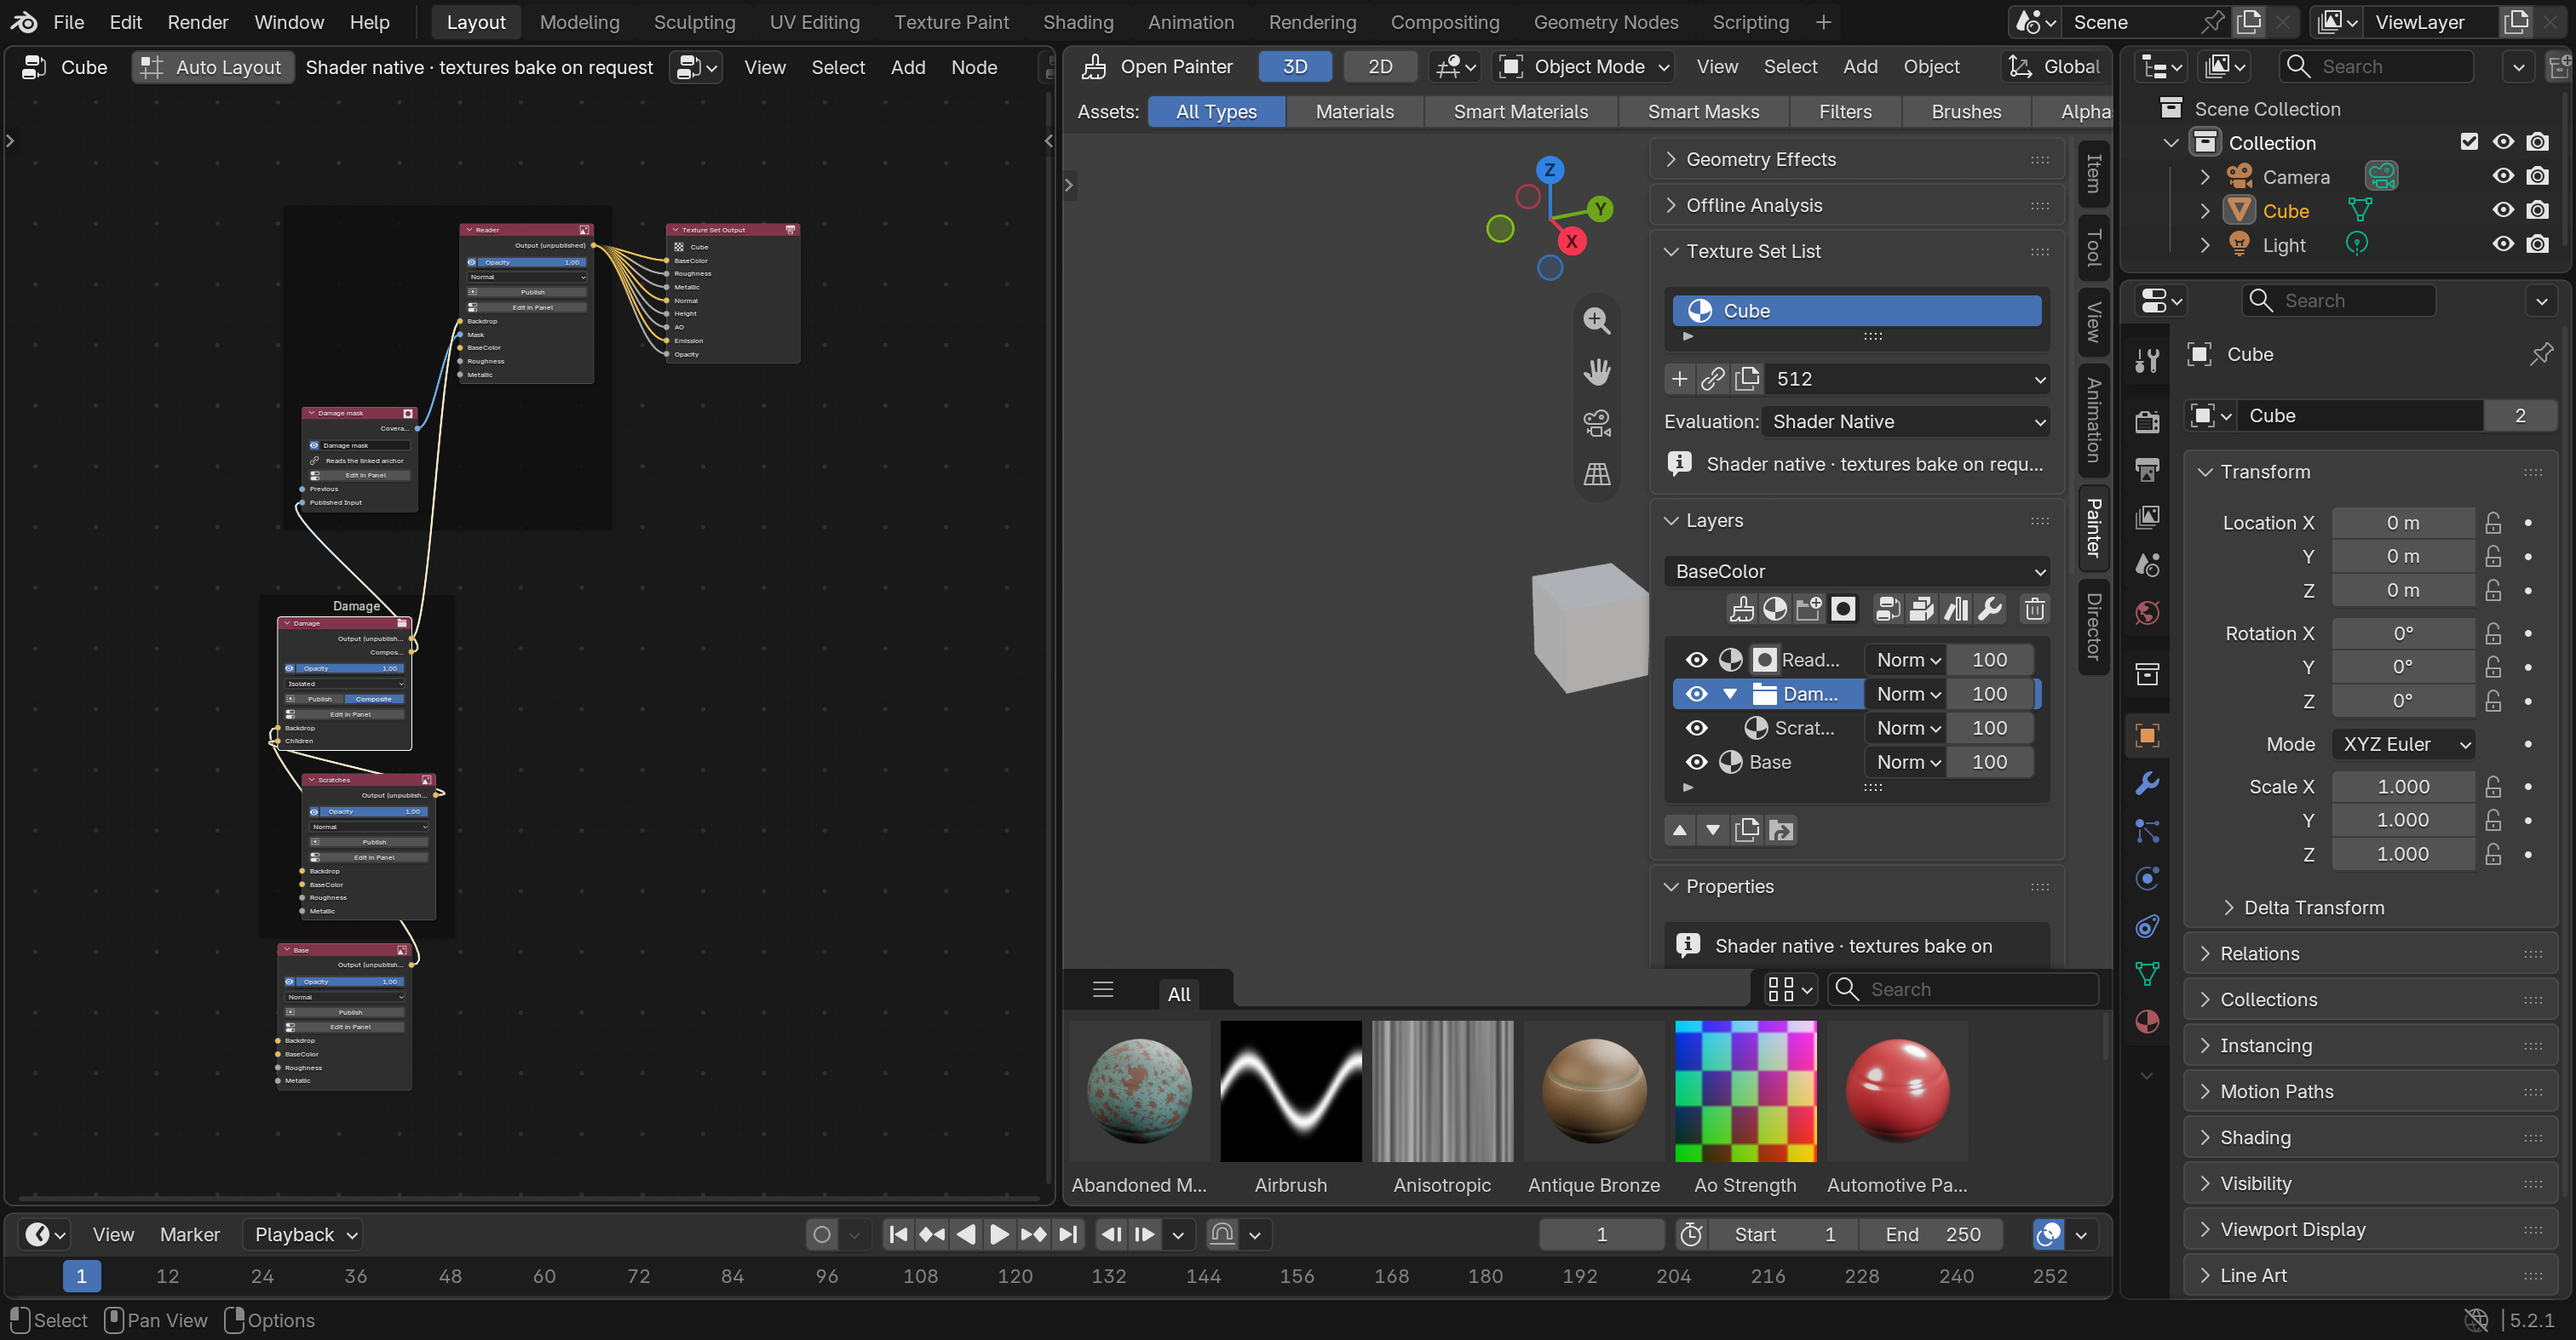
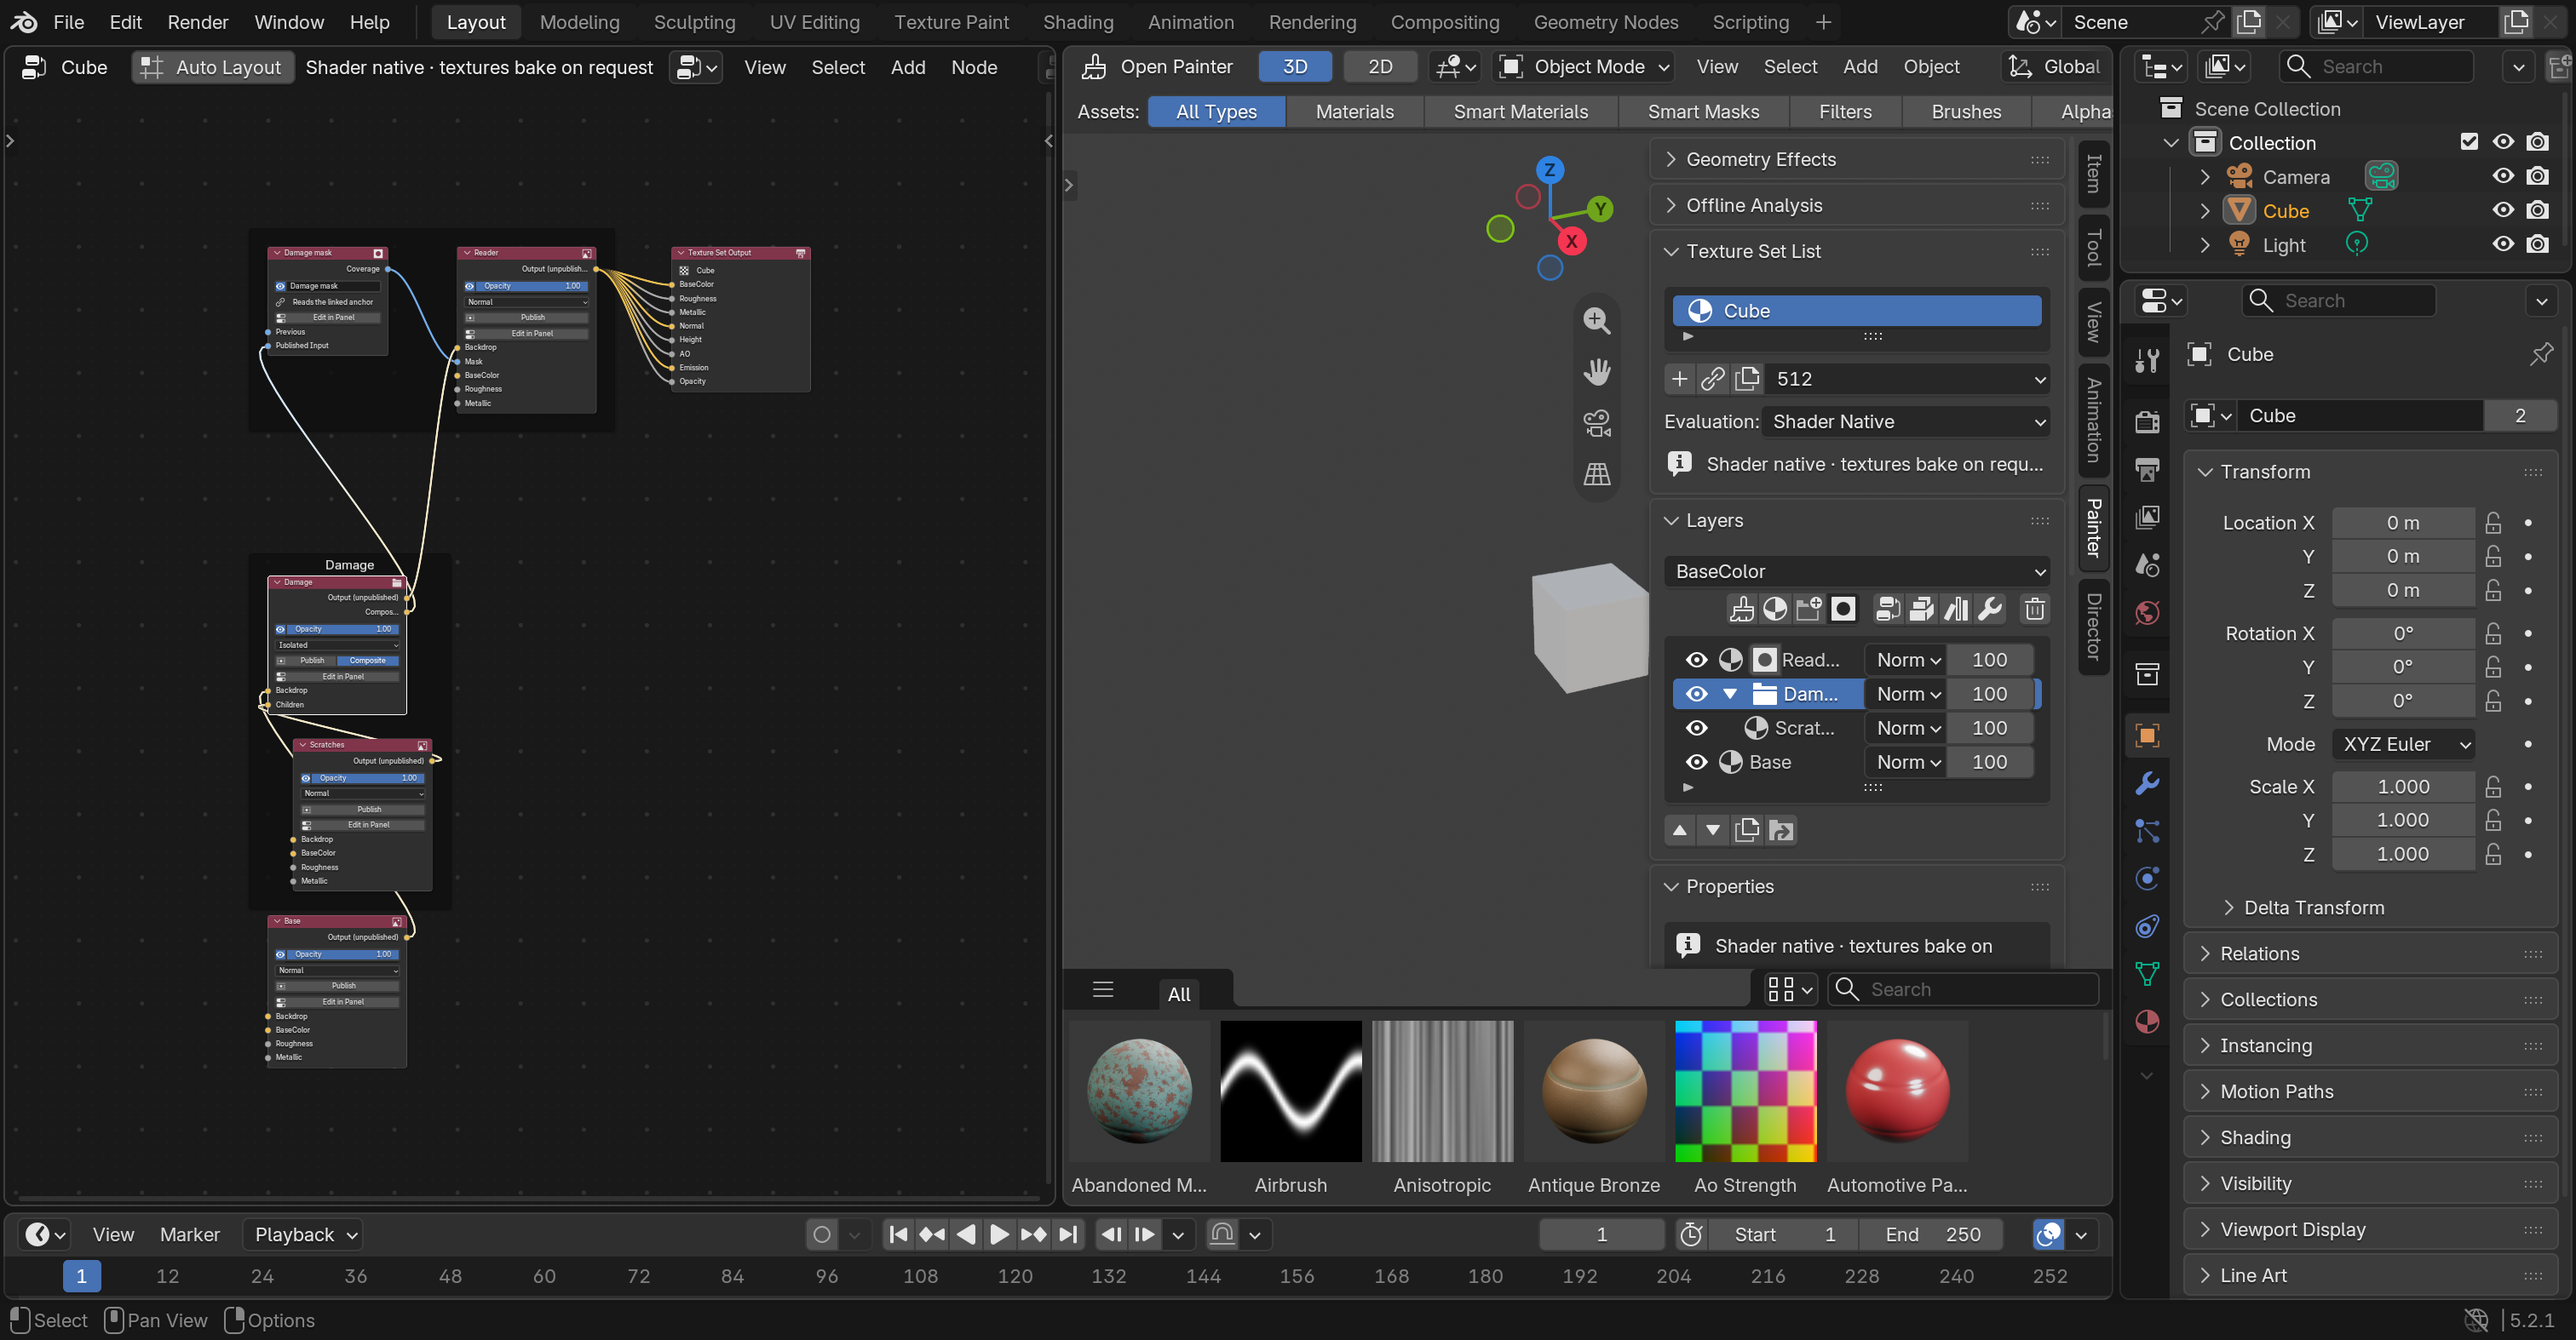
Open Graph: fix edit diffing, node placement, duplicates and labels
- diff user edits against the links/nodes the tree showed at its last sync
  (stored on the tree) instead of a fresh projection: a link edit made before
  the tick reconciled a panel change no longer clears a just-set reference
- place a new mask/filter node relative to its layer's actual position
- remove duplicated/pasted nodes sharing an op_id; redraw after a frame or
  unlinked node is deleted
- label filter nodes by kind (the name property defaults to "Levels")
- UILayout.prop labels are always strings

Changed region(s): [[0.0933, 0.4047, 0.1865, 0.8094], [0.0933, 0.1557, 0.3108, 0.3736]]

diff --git a/src/open_painter/graph/mirror.py b/src/open_painter/graph/mirror.py
@@ -153,9 +153,12 @@ def project(ts):
             for index, effect in enumerate(prop.effects):
                 identifier = effect_node_id(layer, prop.channel, index, effect)
                 kind = _content_socket(prop.channel)
-                label = effect.name or effect.kind.replace('_', ' ').title()
+                # The name property defaults to "Levels" whatever the kind: trust it only
+                # when it was set to something else (anchors are named by the artist).
+                kind_label = effect.kind.replace('_', ' ').title()
+                label = effect.name if effect.name and effect.name != 'Levels' else kind_label
                 if effect.kind == 'ANCHOR':
-                    label = 'Anchor: ' + label
+                    label = 'Anchor: ' + (effect.name or kind_label)
                 nodes[identifier] = {'kind': 'EFFECT', 'label': f'{label} ({CHANNEL_LABELS.get(prop.channel, prop.channel)})',
                                      'inputs': [('in', 'Content', kind)], 'outputs': [('out', 'Content', kind)],
                                      'frame': own_frame, 'owner': layer.id, 'channel': prop.channel}
@@ -272,6 +275,12 @@ def texture_set_of(tree, scene=None):
 
 # ---- reconciliation ------------------------------------------------------------
 
+def synced(tree):
+    """(link keys, mask/filter node ids) the tree showed after its last reconcile."""
+    links = {tuple(item.split('\t')) for item in tree.get('op_links', [])}
+    return links, set(tree.get('op_nodes', []))
+
+
 def nodes_by_id(tree):
     return {node.op_id if hasattr(node, 'op_id') else node.get('op_id', ''): node for node in tree.nodes}
 
@@ -303,6 +312,13 @@ def reconcile(tree, ts, force_layout=False):
     """Edit ``tree`` in place until it equals ``project(ts)``; positions of known nodes survive."""
     nodes, frames, links = project(ts)
     with syncing():
+        # Duplicated or pasted nodes share an id with the original: keep one.
+        seen = set()
+        for node in list(tree.nodes):
+            identifier = node.op_id if hasattr(node, 'op_id') else node.get('op_id', '')
+            if identifier in seen:
+                tree.nodes.remove(node)
+            seen.add(identifier)
         existing = nodes_by_id(tree)
         for identifier, node in list(existing.items()):
             wanted = (identifier in nodes and node.bl_idname == NODE_TYPES[nodes[identifier]['kind']]) or \
@@ -351,6 +367,11 @@ def reconcile(tree, ts, force_layout=False):
         place(tree, ts, existing, nodes, links, only=None if force_layout else set(created))
         tree['op_signature'] = signature(ts)
         tree['op_serial'] = ts.edit_serial
+        # What the tree shows now: user edits are diffed against this, never
+        # against a projection the tree may not have caught up with yet.
+        tree['op_links'] = ['\t'.join(link) for link in links]
+        tree['op_nodes'] = [identifier for identifier, spec in nodes.items() if spec['kind'] in {'MASK', 'EFFECT'}]
+        tree['op_node_count'] = len(tree.nodes)
     return tree
 
 
@@ -384,8 +405,16 @@ def place(tree, ts, existing, nodes, links, only=None):
         if only is not None and identifier not in only:
             continue
         node = existing.get(identifier)
-        if node is not None:
-            node.location_absolute = (x, y)
+        if node is None:
+            continue
+        owner = nodes[identifier].get('owner', '')
+        if only is not None and owner and owner != identifier and owner not in only and owner in existing:
+            # A new mask/filter joins a layer the user may have moved: keep the
+            # layout's offset from the layer, applied to where the layer really is.
+            ox, oy = coordinates.get(owner, (x, y))
+            ax, ay = existing[owner].location_absolute
+            x, y = ax + (x - ox), ay + (y - oy)
+        node.location_absolute = (x, y)
 
 
 # ---- lifecycle -----------------------------------------------------------------
@@ -524,7 +553,10 @@ def draw_mask(layout, ts, layer, mask):
     elif mask.source == 'ANCHOR':
         layout.label(text='Publishes the coverage so far', icon='ANCHOR_CENTER')
     for name in MASK_CONTROLS.get(mask.source, ()):
-        layout.prop(mask, name, text='' if name in {'generator', 'map_type', 'edge_source'} else None)
+        if name in {'generator', 'map_type', 'edge_source'}:
+            layout.prop(mask, name, text='')
+        else:
+            layout.prop(mask, name)
     if mask.source not in {'ANCHOR', 'REFERENCE'}:
         row = layout.row(align=True)
         row.prop(mask, 'black', text='Black')

diff --git a/src/open_painter/graph/edits.py b/src/open_painter/graph/edits.py
@@ -248,24 +248,19 @@ def on_tree_update(tree):
     ts = mirror.texture_set_of(tree, getattr(bpy.context, 'scene', None))
     if ts is None:
         return
-    nodes, _, projected = mirror.project(ts)
-    expected = {tuple(link) for link in projected}
+    shown_links, shown_nodes = mirror.synced(tree)
     actual = link_keys(tree)
     status, touched = None, set()
-    # A missing mask/filter node is a deletion, but only while the tree was in
-    # sync: a stale tree simply has not drawn a mask added in the panel yet.
-    if tree.get('op_signature') == mirror.signature(ts):
-        present = set(mirror.nodes_by_id(tree))
-        for identifier, spec in nodes.items():
-            if spec['kind'] in {'MASK', 'EFFECT'} and identifier not in present:
-                try:
-                    delete(ts, identifier)
-                except LinkError as error:
-                    status = str(error)
-                tree['op_links_dirty'] = True
-        nodes, _, projected = mirror.project(ts)
-        expected = {tuple(link) for link in projected}
-    for source, from_socket, target, to_socket in sorted(actual - expected):
+    # Diff against what the tree showed after its last sync: a projection the
+    # tree has not caught up with (a mask just added in the panel) is not an edit.
+    present = set(mirror.nodes_by_id(tree))
+    for identifier in sorted(shown_nodes - present):
+        try:
+            delete(ts, identifier)
+        except LinkError as error:
+            status = str(error)
+        tree['op_links_dirty'] = True
+    for source, from_socket, target, to_socket in sorted(actual - shown_links):
         touched.add((target, to_socket))
         try:
             if is_chain_link(ts, source, from_socket, target, to_socket):
@@ -277,7 +272,7 @@ def on_tree_update(tree):
         except ValueError as error:   # layer_stack refusals (folder cycles)
             status = str(error)
         tree['op_links_dirty'] = True
-    for source, from_socket, target, to_socket in sorted(expected - actual):
+    for source, from_socket, target, to_socket in sorted(shown_links - actual):
         tree['op_links_dirty'] = True
         # An input that just received a link was either re-pointed (the field
         # already changed) or kept its reference after a refusal; the sync
@@ -285,6 +280,12 @@ def on_tree_update(tree):
         if target == OUTPUT_NODE or (target, to_socket) in touched:
             continue
         disconnect(ts, target, to_socket)
+    if len(tree.nodes) != tree.get('op_node_count', len(tree.nodes)):
+        tree['op_links_dirty'] = True   # a deleted frame/layer node or a pasted duplicate: redraw
+    # Edits made before the next sync diff against the tree as it is now.
+    tree['op_links'] = ['\t'.join(key) for key in actual]
+    tree['op_nodes'] = sorted(shown_nodes & present)
+    tree['op_node_count'] = len(tree.nodes)
     if status:
         scene = getattr(bpy.context, 'scene', None)
         if scene is not None:

diff --git a/tests/integration/graph_link_edits.py b/tests/integration/graph_link_edits.py
@@ -207,5 +207,26 @@ assert (mirror.mask_node_id(added, 1, added.masks[1]), 'out', child_id, 'mask') 
 channel_anchor = stack.channel_for(added, 'ROUGHNESS').effects[1].id
 assert (channel_anchor, 'out', child_id, 'content#ROUGHNESS') in keys
 print('GRAPH_LINKS add menu: PASS', flush=True)
+
+# 9. Robustness: a stale tree, duplicated nodes and deleted frames.
+scratch = layer(child_id).masks.add(); scratch.id, scratch.source, scratch.reference_anchor = new_id(), 'REFERENCE', anchor_id
+link = next(l for l in tree.links if l.to_node.op_id == child_id and l.to_socket.identifier == 'mask')
+tree.links.remove(link)        # a user edit before the tick reconciled the new mask
+assert layer(child_id).masks[-1].reference_anchor == anchor_id, 'stale-tree edit cleared a fresh reference'
+settle()
+nodes = by_id()
+nodes[child_id].location_absolute = (4000., -2000.)
+extra_mask = layer(child_id).masks.add(); extra_mask.id, extra_mask.source = new_id(), 'NOISE'
+settle()
+x, y = by_id()[extra_mask.id].location_absolute
+assert abs(y + 2000.) < 1 and 0 < 4000. - x < 2000, (x, y)   # placed on its moved layer's row
+duplicate = tree.nodes.new('OPMaskNode'); duplicate.op_id, duplicate.op_kind = extra_mask.id, 'MASK'
+frame = next(n for n in tree.nodes if n.bl_idname == 'NodeFrame')
+tree.nodes.remove(frame)
+assert tree.get('op_links_dirty')
+settle()
+assert sum(1 for n in tree.nodes if getattr(n, 'op_id', '') == extra_mask.id) == 1
+assert any(n.bl_idname == 'NodeFrame' for n in tree.nodes)
+print('GRAPH_LINKS robustness: PASS', flush=True)
 print('GRAPH_LINK_EDITS_PASS', flush=True)
 open_painter.unregister()

diff --git a/src/open_painter/graph/operators.py b/src/open_painter/graph/operators.py
@@ -100,8 +100,12 @@ class OP_OT_graph_select(SafeOperator, bpy.types.Operator):
                 ui.selected_layers, ui.mask_selected = {self.layer_id}, self.mask_index >= 0
                 area.tag_redraw()
         if is_graph(tree):
-            tree['op_active'] = self.layer_id
-            tree['op_active_node'] = self.layer_id if self.mask_index < 0 and self.effect_index < 0 else ''
+            node_id = self.layer_id
+            if 0 <= self.mask_index < len(layer.masks):
+                node_id = mirror.mask_node_id(layer, self.mask_index, layer.masks[self.mask_index])
+            elif self.channel and 0 <= self.effect_index < len(prop.effects):
+                node_id = mirror.effect_node_id(layer, self.channel, self.effect_index, prop.effects[self.effect_index])
+            tree['op_active'], tree['op_active_node'] = self.layer_id, node_id
 
 
 def _graph_target(context):

diff --git a/CHANGELOG.md b/CHANGELOG.md
@@ -41,6 +41,10 @@ Material Director.
   Shift+A adds masks (generators, procedurals, scene fields, filters, anchors, published inputs)
   and channel filters to the active layer; dragging chain or backdrop links reorders masks,
   filters and layers; deleting a mask/filter node deletes it. See [Open Graph](docs/open-graph.md).
+- Graph edits are diffed against what the tree last showed, so a link edit made before the graph
+  caught up with a panel change no longer clears a fresh reference; new mask/filter nodes are placed
+  next to their (possibly moved) layer node; duplicated or pasted nodes and deleted frames are
+  reconciled; filter nodes are labelled by kind.
 - See [Material Director](docs/material-director.md) for setup and supported scope.
 
 ## 0.7.0
